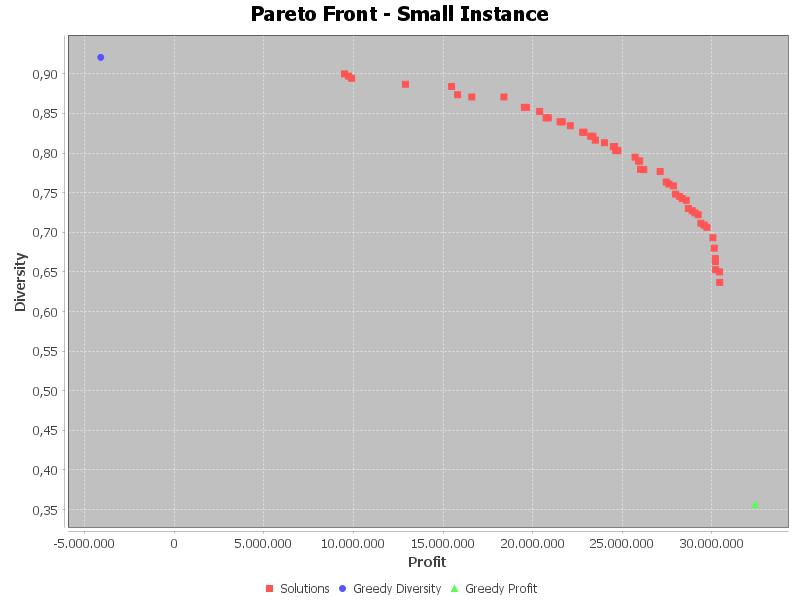
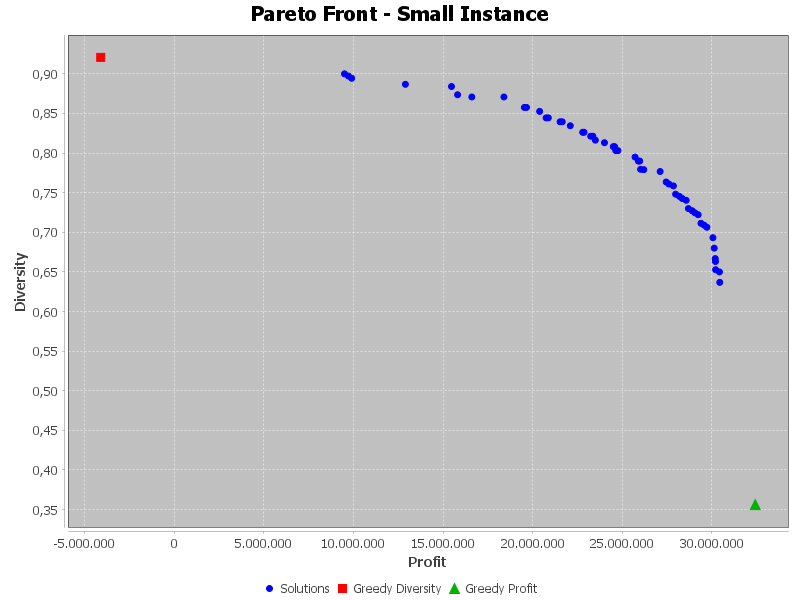
pareto plot

diff --git a/src/main/java/rotacionCultivos/PlotParetoFromCSV.java b/src/main/java/rotacionCultivos/PlotParetoFromCSV.java
@@ -4,6 +4,14 @@ import org.jfree.chart.ChartUtils;
 import org.jfree.chart.JFreeChart;
 import org.jfree.data.xy.DefaultXYDataset;
 import org.uma.jmetal.solution.integersolution.IntegerSolution;
+import org.jfree.chart.plot.XYPlot;
+import org.jfree.chart.renderer.xy.XYLineAndShapeRenderer;
+
+import java.awt.Color;
+import java.awt.Shape;
+import java.awt.geom.Ellipse2D;
+import java.awt.geom.Rectangle2D;
+import java.awt.geom.Path2D;
 
 import rotacionCultivos.GreedyAgriculturalSolver.Result;
 import rotacionCultivos.Main.AgriculturalData;
@@ -47,15 +55,11 @@ public class PlotParetoFromCSV {
             File outputFile = new File(baseDir, fileMapping.get(csvFile));
             String chartTitle = titleMapping.get(csvFile);
 
-            double[][] puntos = leerCSV(inputFile);
-
             DefaultXYDataset dataset = new DefaultXYDataset();
-            dataset.addSeries("Solutions", puntos);
-
             // Run greedy solvers
             GreedyAgriculturalSolver solverDiversity = new GreedyAgriculturalSolver(
                     data.cantParcelas, data.cantSemestres,
-                    data.cantCultivos, data.areaParcelas, data.rendimientoCultivoChico, 
+                    data.cantCultivos, data.areaParcelas, data.rendimientoCultivoChico,
                     data.rendimientoCultivoMediano, data.rendimientoCultivoGrande,
                     data.precioCultivo, data.costoMantCultivo, data.temporadaCultivo,
                     "diversidad");
@@ -63,22 +67,26 @@ public class PlotParetoFromCSV {
 
             GreedyAgriculturalSolver solverProfit = new GreedyAgriculturalSolver(
                     data.cantParcelas, data.cantSemestres,
-                    data.cantCultivos, data.areaParcelas, data.rendimientoCultivoChico, 
+                    data.cantCultivos, data.areaParcelas, data.rendimientoCultivoChico,
                     data.rendimientoCultivoMediano, data.rendimientoCultivoGrande,
                     data.precioCultivo, data.costoMantCultivo, data.temporadaCultivo,
                     "ganancia");
             Result cropPlanProfit = solverProfit.solve();
-            
-            AgriculturalOptimizationProblem problem = new AgriculturalOptimizationProblem(data.cantParcelas, data.cantFilas,
-    				data.cantSemestres, data.cantCultivos, data.areaParcelas, data.rendimientoCultivoChico,
-    				data.rendimientoCultivoMediano, data.rendimientoCultivoGrande, data.precioCultivo,
-    				data.costoMantCultivo, data.temporadaCultivo);
-            
-            List<IntegerSolution> greedyProfitResult = solverProfit.initializePopulation(problem, cropPlanProfit.cropPlan,
-    				cropPlanProfit.totalProfit, cropPlanProfit.diversityScore);
 
-    		List<IntegerSolution> greedyDiversityResult = solverDiversity.initializePopulation(problem,
-    				cropPlanDiversity.cropPlan, cropPlanDiversity.totalProfit, cropPlanDiversity.diversityScore);
+            AgriculturalOptimizationProblem problem = new AgriculturalOptimizationProblem(data.cantParcelas, data.cantFilas,
+                    data.cantSemestres, data.cantCultivos, data.areaParcelas, data.rendimientoCultivoChico,
+                    data.rendimientoCultivoMediano, data.rendimientoCultivoGrande, data.precioCultivo,
+                    data.costoMantCultivo, data.temporadaCultivo);
+
+            List<IntegerSolution> greedyProfitResult = solverProfit.initializePopulation(problem, cropPlanProfit.cropPlan,
+                    cropPlanProfit.totalProfit, cropPlanProfit.diversityScore);
+
+            List<IntegerSolution> greedyDiversityResult = solverDiversity.initializePopulation(problem,
+                    cropPlanDiversity.cropPlan, cropPlanDiversity.totalProfit, cropPlanDiversity.diversityScore);
+
+
+            double[][] puntos = leerCSV(inputFile);
+            dataset.addSeries("Solutions", puntos);
 
             // Add diversity greedy solution
             double[][] diversityPoint = new double[2][1];
@@ -94,6 +102,10 @@ public class PlotParetoFromCSV {
             dataset.addSeries("Greedy Profit", profitPoint);
             System.out.println("Greedy-Profit point: (" + profitPoint[0][0] + ", " + profitPoint[1][0] + ")");
 
+
+
+
+// after creating chart:
             JFreeChart chart = ChartFactory.createScatterPlot(
                     chartTitle,
                     "Profit",
@@ -101,6 +113,30 @@ public class PlotParetoFromCSV {
                     dataset
             );
 
+// Custom renderer
+            XYPlot plot = chart.getXYPlot();
+            XYLineAndShapeRenderer renderer = new XYLineAndShapeRenderer(false, true);
+
+// Shapes
+            Shape circle = new Ellipse2D.Double(-3, -3, 6, 6);       // blue circles
+            Shape square = new Rectangle2D.Double(-4, -4, 8, 8);     // red square
+            Shape triangle = new Path2D.Double();
+            ((Path2D) triangle).moveTo(0, -5);
+            ((Path2D) triangle).lineTo(5, 5);
+            ((Path2D) triangle).lineTo(-5, 5);
+            ((Path2D) triangle).closePath();
+
+// You added series in this order: Greedy Diversity, Greedy Profit, Solutions
+            renderer.setSeriesPaint(0, Color.BLUE.brighter());
+            renderer.setSeriesShape(0, circle);
+            renderer.setSeriesPaint(1, Color.RED);
+            renderer.setSeriesShape(1, square);
+            renderer.setSeriesPaint(2, Color.GREEN.darker());
+            renderer.setSeriesShape(2, triangle);
+
+
+
+            plot.setRenderer(renderer);
             try {
                 ChartUtils.saveChartAsPNG(outputFile, chart, 800, 600);
                 System.out.println("Saved: " + outputFile.getAbsolutePath());
